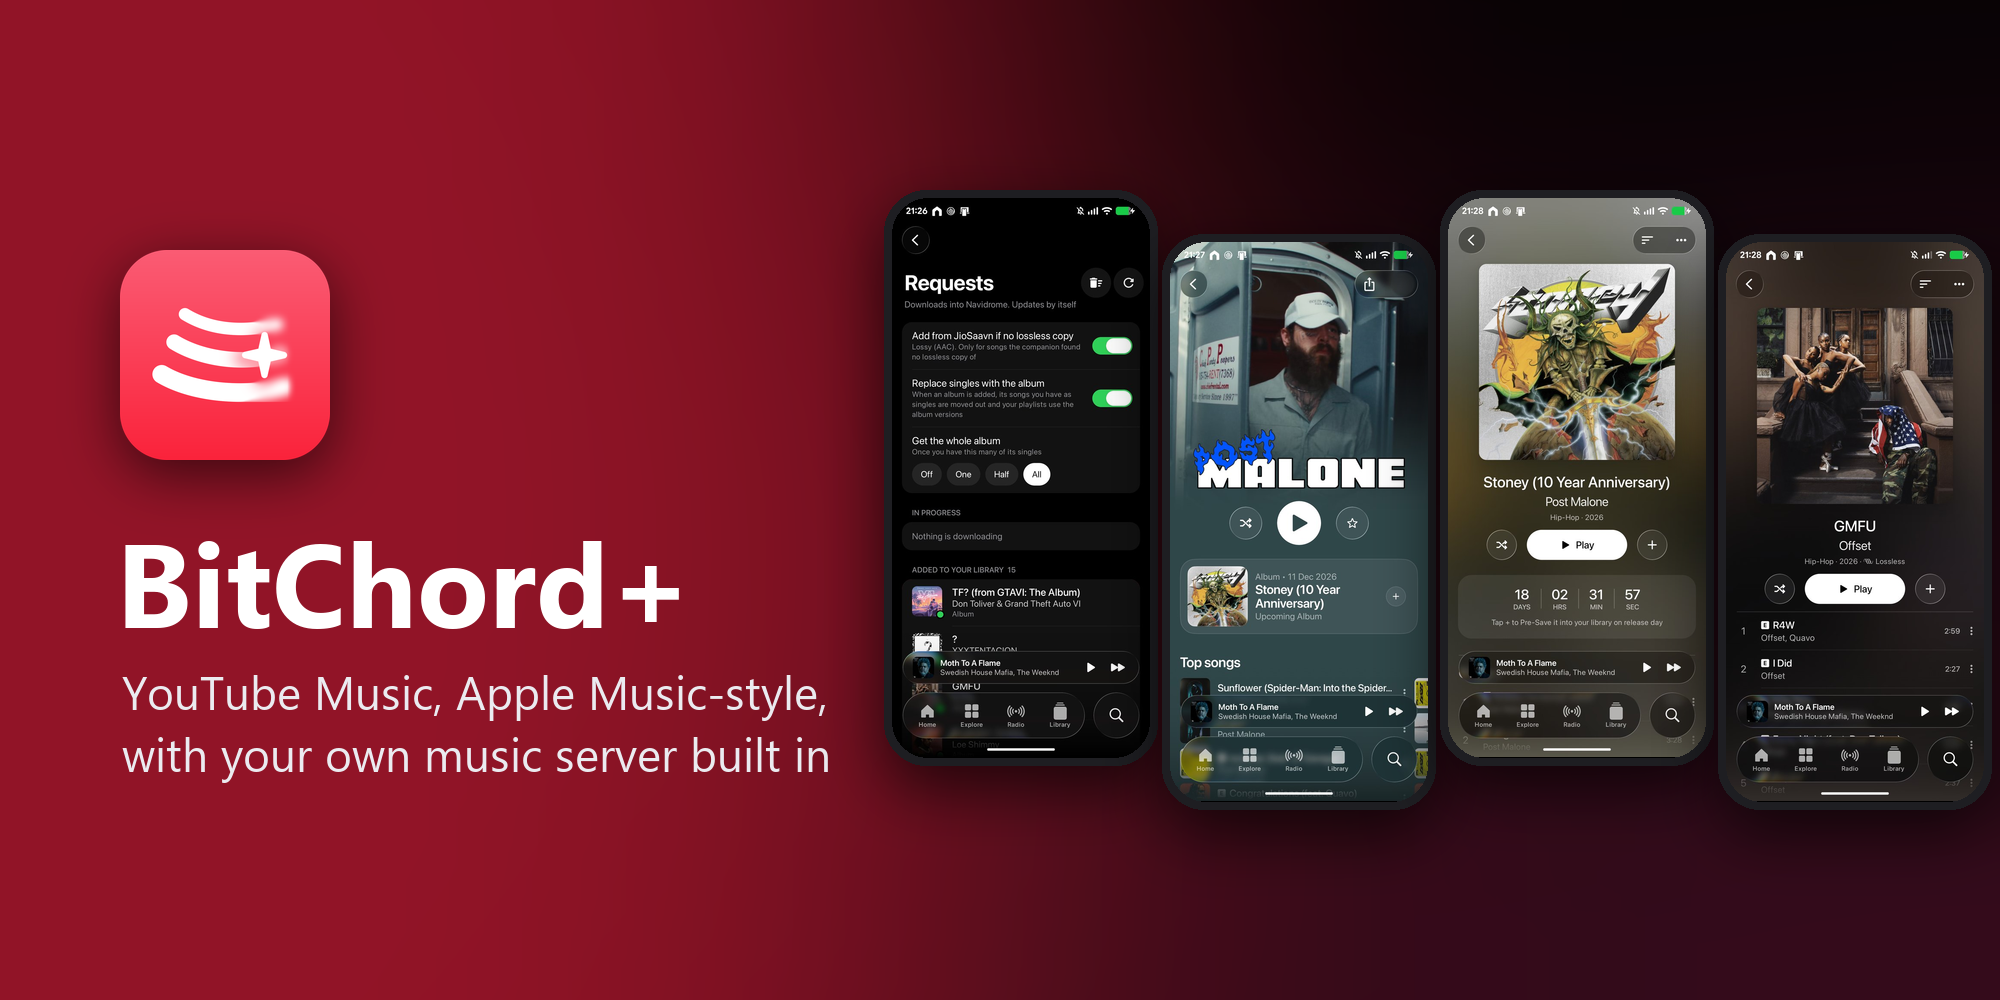
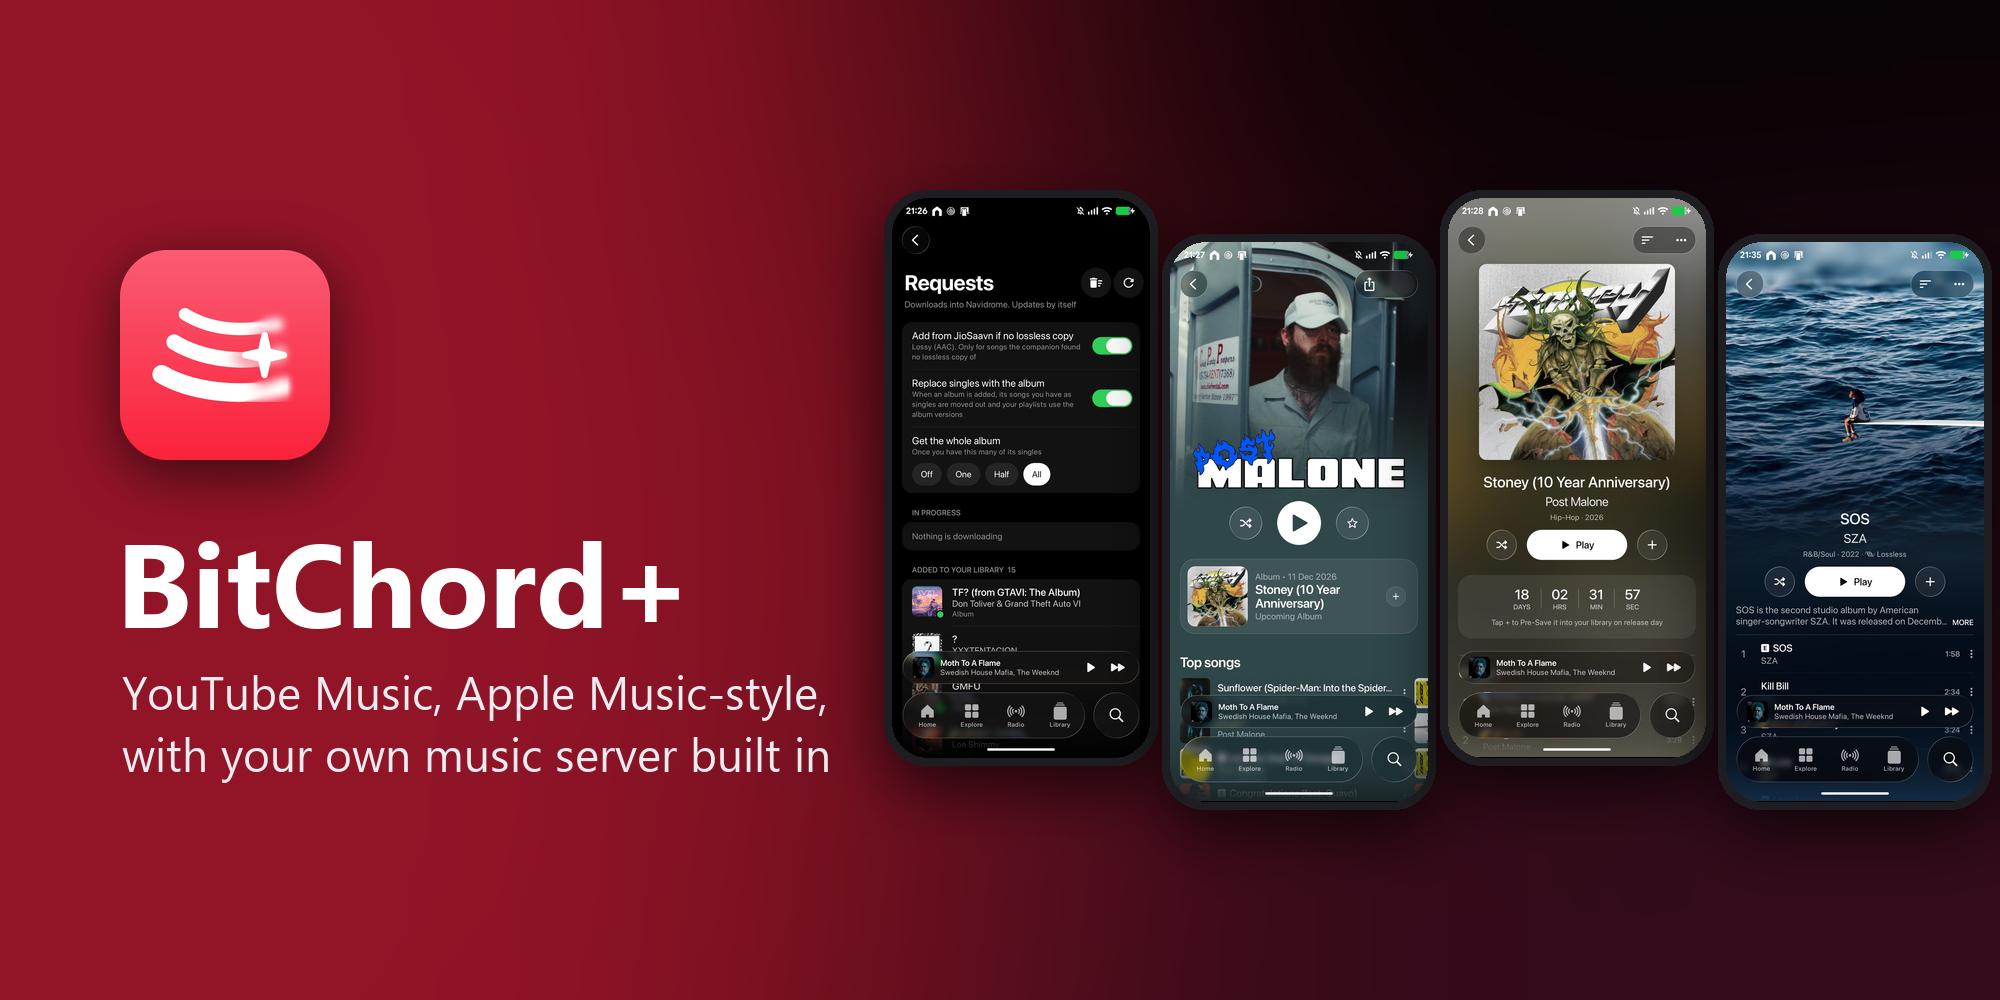
README: album screenshot with a full-screen animated cover (SOS)

Changed region(s): [[0.837, 0.217, 0.992, 0.806]]

diff --git a/README.md b/README.md
@@ -52,7 +52,7 @@ Everything [BitChord](https://github.com/kushagrasinghx/BitChord) does, plus you
     <td width="33%" align="center" valign="top">
       <img src="docs/screenshots/album.jpg" alt="Album page" width="240" /><br/><br/>
       <b>Apple Music-style pages</b><br/>
-      <sub>Genre, year and the real quality your server has (Lossless, Hi-Res Lossless), disc sections and full-screen covers. Your server plays up to 24-bit FLAC next to YouTube Music.</sub>
+      <sub>Full-screen animated covers, genre, year and the real quality your server has (Lossless, Hi-Res Lossless), and disc sections. Your server plays up to 24-bit FLAC next to YouTube Music.</sub>
     </td>
   </tr>
   <tr>
